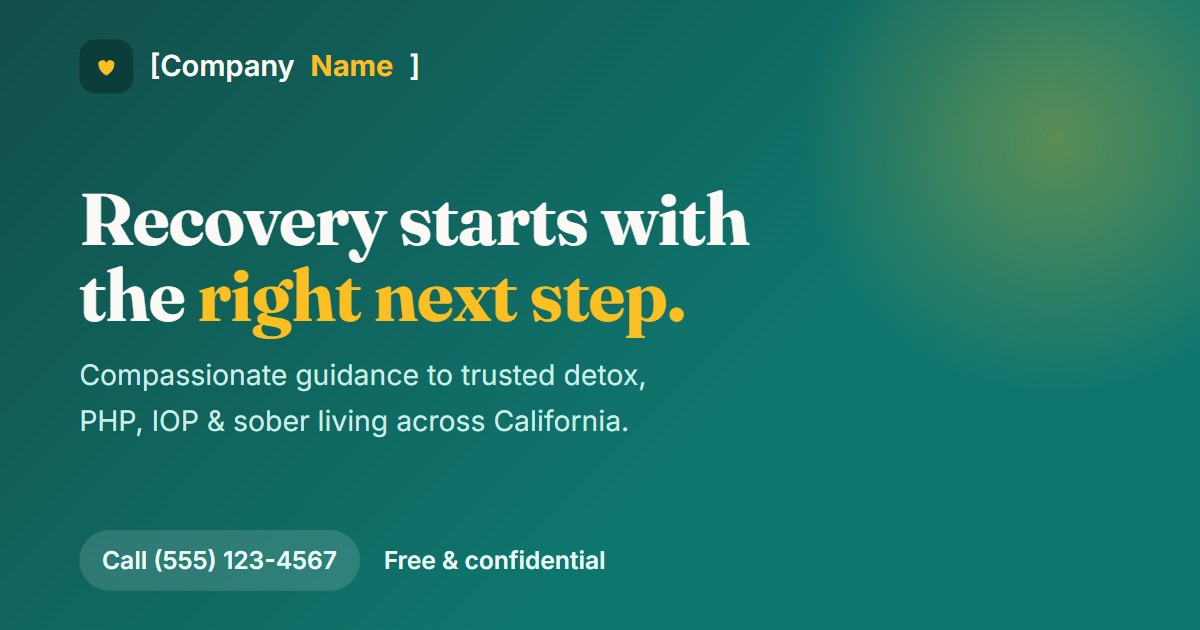
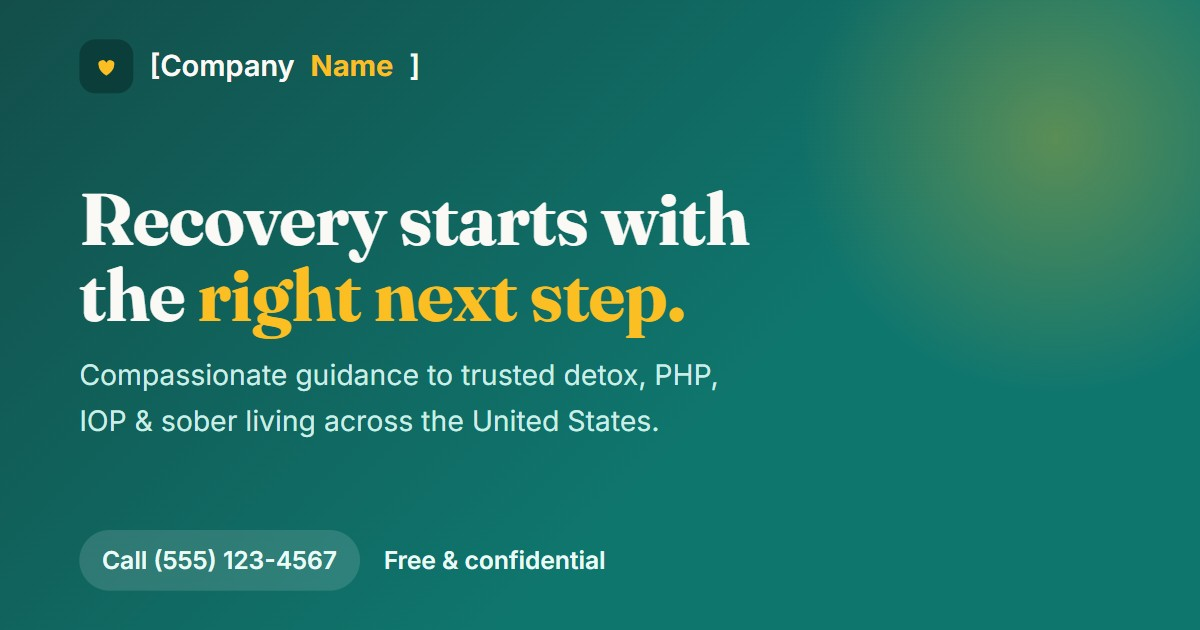
Switch marketing scope from California to nationwide (entire US)
- All copy, meta, titles, OG/Twitter, JSON-LD areaServed US-CA -> US
- Trust strip Statewide/California -> Nationwide/All 50 states; 'All of California' -> 'All 50 states'
- Testimonial cities spread across US (OH/TX/FL); privacy rights language broadened beyond CCPA
- Regenerated OG image with 'across the United States'

Claude-Session: https://claude.ai/code/session_012K2FwKvQ5rScaQHe2MkzMD

Changed region(s): [[0.0617, 0.6333, 0.555, 0.6937], [0.5242, 0.573, 0.5858, 0.6032]]

diff --git a/index.html b/index.html
@@ -3,13 +3,13 @@
 <head>
   <meta charset="utf-8" />
   <meta name="viewport" content="width=device-width, initial-scale=1" />
-  <title>[Company Name] — Find the right level of care across California</title>
-  <meta name="description" content="[Company Name] connects individuals and families with trusted detox, PHP, IOP, and sober living programs across California. Free, compassionate guidance — one call away." />
+  <title>[Company Name] — Find the right level of care across the United States</title>
+  <meta name="description" content="[Company Name] connects individuals and families with trusted detox, PHP, IOP, and sober living programs across the United States. Free, compassionate guidance — one call away." />
   <meta name="theme-color" content="#0f766e" />
 
   <!-- Open Graph -->
   <meta property="og:title" content="[Company Name] — Recovery starts with the right next step" />
-  <meta property="og:description" content="Compassionate guidance to trusted detox, PHP, IOP, and sober living programs across California." />
+  <meta property="og:description" content="Compassionate guidance to trusted detox, PHP, IOP, and sober living programs across the United States." />
   <meta property="og:type" content="website" />
   <meta property="og:url" content="https://williamparrish-michael.github.io/youcanrecover-poc/" />
   <meta property="og:image" content="https://williamparrish-michael.github.io/youcanrecover-poc/assets/img/og.jpg" />
@@ -17,7 +17,7 @@
   <meta property="og:image:height" content="630" />
   <meta name="twitter:card" content="summary_large_image" />
   <meta name="twitter:title" content="[Company Name] — Recovery starts with the right next step" />
-  <meta name="twitter:description" content="Compassionate guidance to trusted detox, PHP, IOP, and sober living programs across California." />
+  <meta name="twitter:description" content="Compassionate guidance to trusted detox, PHP, IOP, and sober living programs across the United States." />
   <meta name="twitter:image" content="https://williamparrish-michael.github.io/youcanrecover-poc/assets/img/og.jpg" />
   <link rel="canonical" href="https://williamparrish-michael.github.io/youcanrecover-poc/" />
 
@@ -46,8 +46,8 @@
         "url": "https://williamparrish-michael.github.io/youcanrecover-poc/",
         "email": "hello@example.com",
         "telephone": "+1-555-123-4567",
-        "description": "Marketing and consulting service that connects individuals and families with detox, PHP, IOP, and sober-living programs across California. Not a medical provider.",
-        "areaServed": "US-CA",
+        "description": "Marketing and consulting service that connects individuals and families with detox, PHP, IOP, and sober-living programs across the United States. Not a medical provider.",
+        "areaServed": "US",
         "address": {
           "@type": "PostalAddress",
           "streetAddress": "[Street Address]",
@@ -61,7 +61,7 @@
           "telephone": "+1-555-123-4567",
           "email": "hello@example.com",
           "contactType": "customer support",
-          "areaServed": "US-CA",
+          "areaServed": "US",
           "availableLanguage": "English"
         }
       }
@@ -106,9 +106,9 @@
     <section class="hero">
       <div class="wrap hero-grid">
         <div class="hero-copy">
-          <p class="eyebrow">California recovery placement &amp; guidance</p>
+          <p class="eyebrow">Nationwide recovery placement &amp; guidance</p>
           <h1>Recovery starts with the <span class="accent">right next step.</span></h1>
-          <p class="lead">You don't have to figure this out alone. We help individuals and families find trusted detox, residential, and outpatient programs across California — matched to the level of care that actually fits.</p>
+          <p class="lead">You don't have to figure this out alone. We help individuals and families find trusted detox, residential, and outpatient programs across the United States — matched to the level of care that actually fits.</p>
           <div class="hero-actions">
             <a class="btn btn-primary" href="tel:+15551234567">
               <svg viewBox="0 0 24 24" width="18" height="18" aria-hidden="true"><path fill="currentColor" d="M6.6 10.8a15.5 15.5 0 0 0 6.6 6.6l2.2-2.2a1 1 0 0 1 1-.24 11.4 11.4 0 0 0 3.6.57 1 1 0 0 1 1 1V20a1 1 0 0 1-1 1A17 17 0 0 1 3 4a1 1 0 0 1 1-1h3.5a1 1 0 0 1 1 1 11.4 11.4 0 0 0 .57 3.6 1 1 0 0 1-.25 1Z"/></svg>
@@ -142,7 +142,7 @@
     <section class="trust">
       <div class="wrap trust-grid">
         <div><strong>24/7</strong><span>Guidance line</span></div>
-        <div><strong>Statewide</strong><span>California coverage</span></div>
+        <div><strong>Nationwide</strong><span>All 50 states</span></div>
         <div><strong>Vetted</strong><span>Partner network</span></div>
         <div><strong>$0</strong><span>Cost to families</span></div>
       </div>
@@ -189,7 +189,7 @@
         <div class="section-head">
           <p class="eyebrow">Levels of care</p>
           <h2>The right support for where you are</h2>
-          <p class="section-sub">Recovery isn't one-size-fits-all. We connect you with the full continuum of care across California.</p>
+          <p class="section-sub">Recovery isn't one-size-fits-all. We connect you with the full continuum of care across the United States.</p>
         </div>
 
         <div class="care-grid">
@@ -229,15 +229,15 @@
         <div class="stories-grid">
           <figure class="story">
             <blockquote>"I called at 2am not knowing what to do about my son. Someone actually answered, stayed calm, and by the weekend he was in detox. I finally felt like we weren't alone."</blockquote>
-            <figcaption><span class="avatar" data-initial="M">M</span><span><strong>Maria</strong><small>Mother · Riverside, CA</small></span></figcaption>
+            <figcaption><span class="avatar" data-initial="M">M</span><span><strong>Maria</strong><small>Mother · Columbus, OH</small></span></figcaption>
           </figure>
           <figure class="story">
             <blockquote>"They didn't push me toward the most expensive place. They found a program that took my insurance and actually fit my life. Two years sober now."</blockquote>
-            <figcaption><span class="avatar" data-initial="D">D</span><span><strong>Daniel</strong><small>In recovery · Los Angeles, CA</small></span></figcaption>
+            <figcaption><span class="avatar" data-initial="D">D</span><span><strong>Daniel</strong><small>In recovery · Austin, TX</small></span></figcaption>
           </figure>
           <figure class="story">
             <blockquote>"After treatment I was terrified of going home. They helped me find a sober living house with real community. That's what made it stick."</blockquote>
-            <figcaption><span class="avatar" data-initial="J">J</span><span><strong>Jasmine</strong><small>In recovery · San Diego, CA</small></span></figcaption>
+            <figcaption><span class="avatar" data-initial="J">J</span><span><strong>Jasmine</strong><small>In recovery · Tampa, FL</small></span></figcaption>
           </figure>
         </div>
         <p class="section-note">Individual experiences shared with permission; names and details changed for privacy. Results vary and are not typical or guaranteed — no testimonial should be taken as a promise of any particular outcome.</p>
@@ -249,7 +249,7 @@
       <div class="wrap partners-grid">
         <div>
           <p class="eyebrow">Our network</p>
-          <h2>Trusted programs &amp; partners across California</h2>
+          <h2>Trusted programs &amp; partners across the United States</h2>
           <p class="section-sub">We only refer to facilities we'd send our own families to — licensed, accredited, and committed to real, ethical care.</p>
           <ul class="check-list">
             <li>Licensed detox &amp; residential facilities</li>
@@ -290,7 +290,7 @@
           <ul class="contact-list">
             <li><strong>Call/text:</strong> <a href="tel:+15551234567">(555) 123-4567</a></li>
             <li><strong>Email:</strong> <a href="mailto:hello@example.com">hello@example.com</a></li>
-            <li><strong>Serving:</strong> All of California</li>
+            <li><strong>Serving:</strong> All 50 states</li>
           </ul>
         </div>
 
@@ -340,7 +340,7 @@
     <div class="wrap footer-inner">
       <div class="footer-brand">
         <span class="brand-text">[Company <strong>Name</strong>]</span>
-        <p>Compassionate recovery placement &amp; consulting across California.</p>
+        <p>Compassionate recovery placement &amp; consulting across the United States.</p>
         <p class="footer-contact">
           <a href="tel:+15551234567">(555) 123-4567</a> · <a href="mailto:hello@example.com">hello@example.com</a>
         </p>

diff --git a/privacy.html b/privacy.html
@@ -71,7 +71,7 @@
       <p><strong>We do not share or sell your mobile opt-in information or SMS consent to any third parties or affiliates for their own marketing or promotional purposes.</strong> A phone number you provide is used only to contact you as described in this policy.</p>
 
       <h2>Your choices</h2>
-      <p>You may request to access, correct, or delete the personal information we hold about you, or ask us to stop contacting you, by emailing <a href="mailto:hello@example.com">hello@example.com</a>. Depending on where you live, you may have additional rights under laws such as the California Consumer Privacy Act.</p>
+      <p>You may request to access, correct, or delete the personal information we hold about you, or ask us to stop contacting you, by emailing <a href="mailto:hello@example.com">hello@example.com</a>. Depending on which state you live in, you may have additional rights under your state's privacy law — for example, the California Consumer Privacy Act (CCPA/CPRA) and comparable laws in other states.</p>
 
       <h2>Your privacy choices &amp; Global Privacy Control</h2>
       <p>We do not sell your personal information, and we do not share it for cross-context behavioral advertising. We honor the <strong>Global Privacy Control (GPC)</strong> signal: if your browser or a browser extension sends a GPC opt-out preference, we treat it as a valid request to opt out of any sale or sharing of your personal information. To make a privacy request — to know, access, correct, delete, or opt out — email <a href="mailto:hello@example.com">hello@example.com</a>. We will not discriminate against you for exercising your privacy rights.</p>

diff --git a/README.md b/README.md
@@ -1,8 +1,8 @@
 # [Company Name] — Landing Page (Proof of Concept)
 
-A warm, trustworthy, mobile-first landing page concept for **[Company Name]**, a California
+A warm, trustworthy, mobile-first landing page concept for **[Company Name]**, a nationwide
 marketing &amp; consulting service that connects individuals and families with trusted detox,
-PHP, IOP, and sober-living programs.
+PHP, IOP, and sober-living programs across the United States.
 
 > **Preview build.** Testimonials and statistics are illustrative samples. Crisis resources
 > shown (988, SAMHSA 1-800-662-HELP) are real and accurate.
